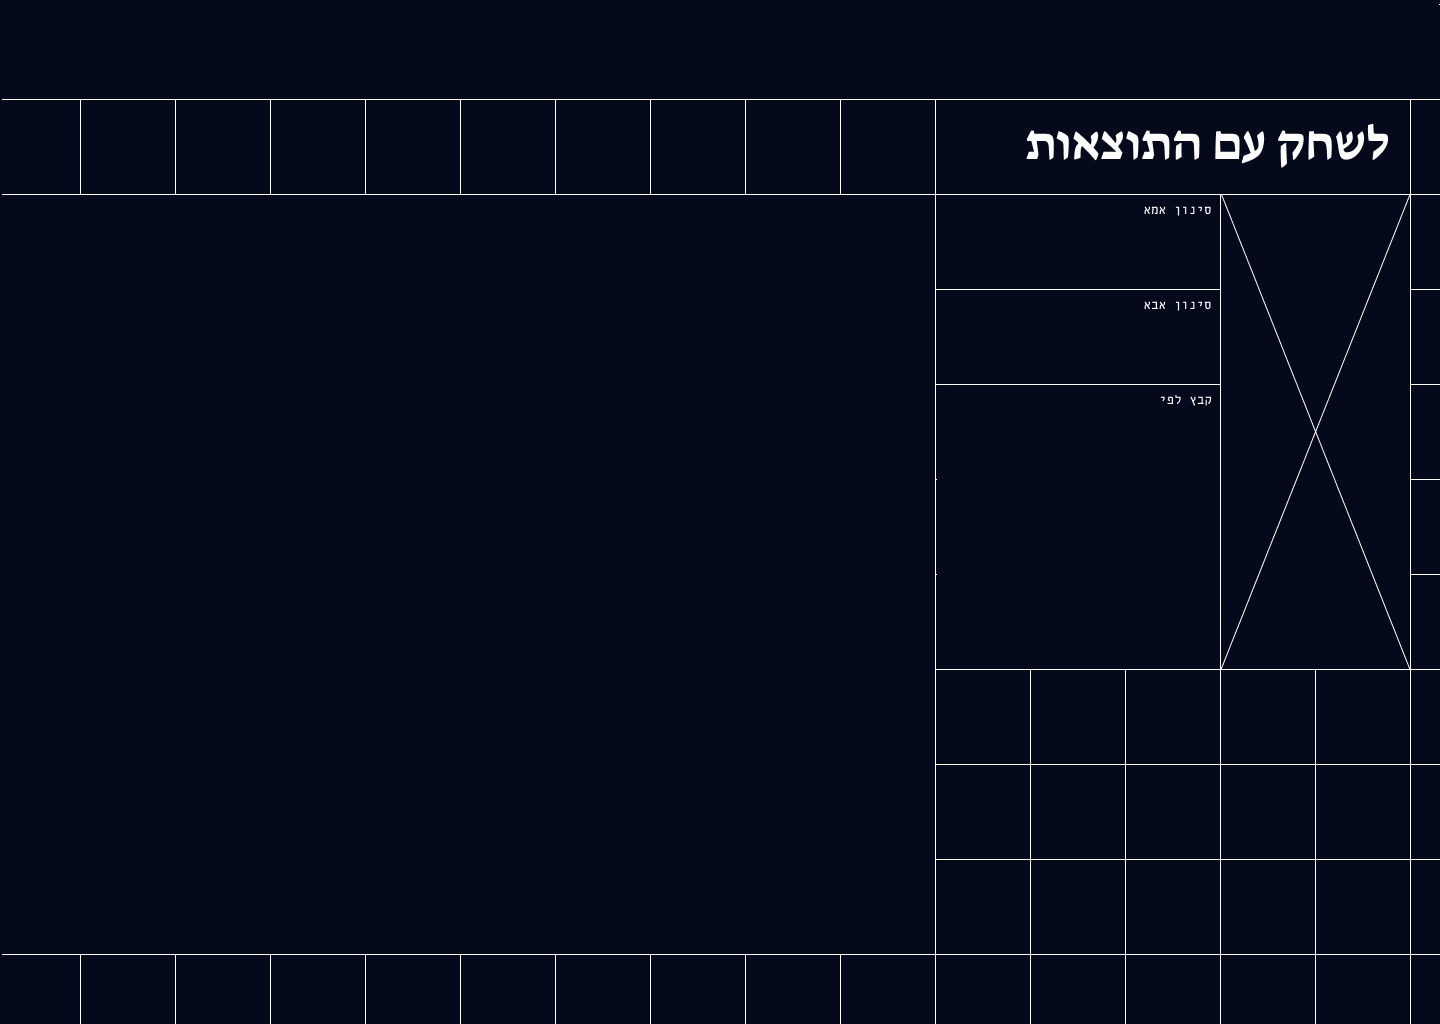
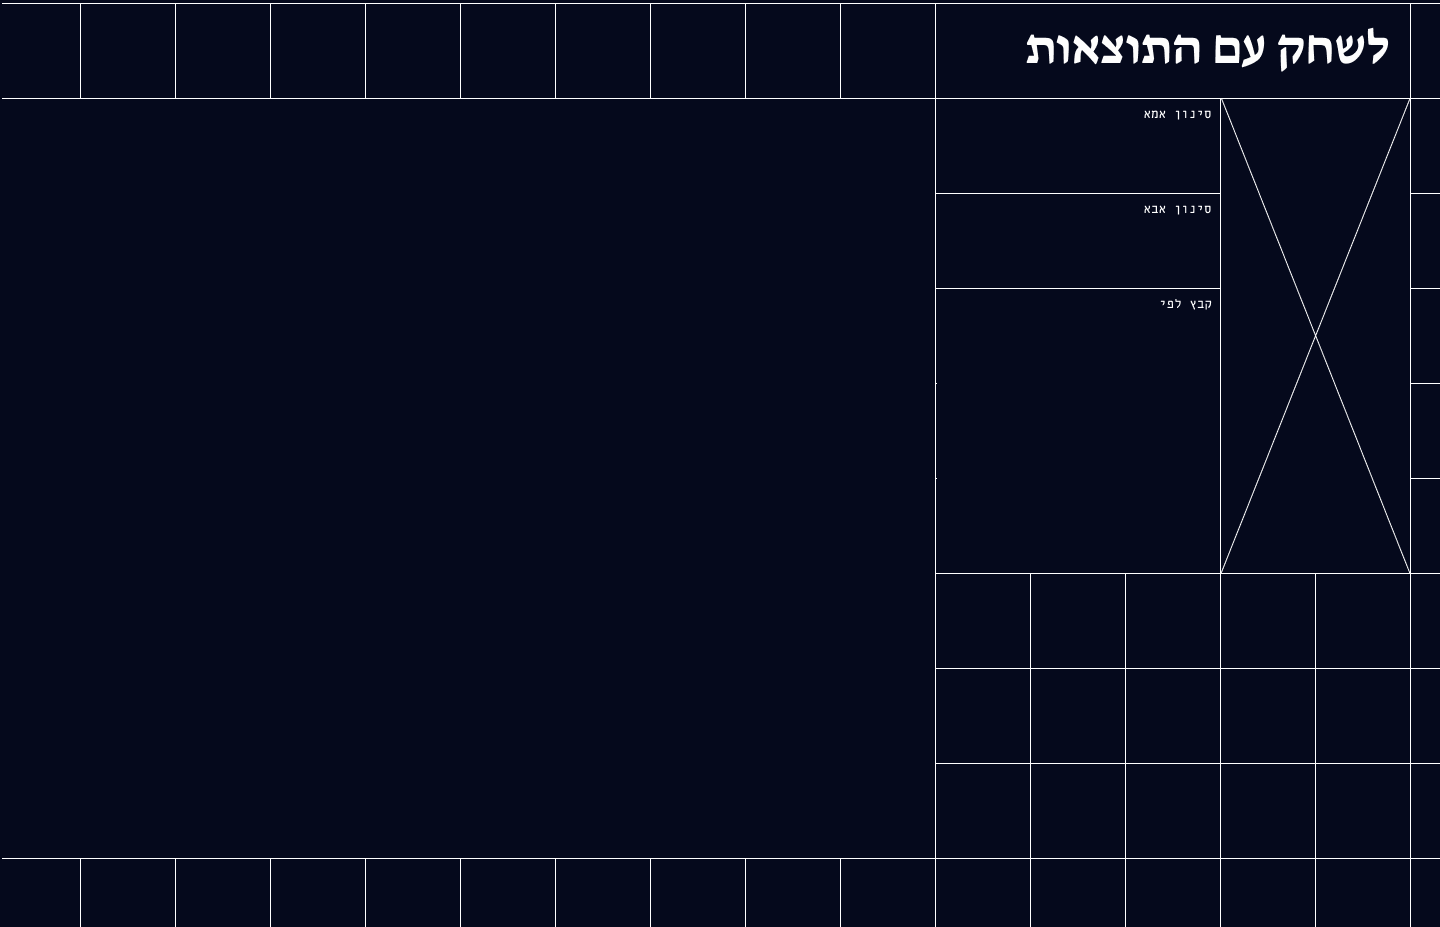
background size

diff --git a/src/App.js b/src/App.js
@@ -14,8 +14,8 @@ function App() {
 
   return (
     <div className='App'>
-        <div className="background-image">
-          <Menu />
+      <Menu />
+      <div className="background-image">
           <div style={{ display: "flex", marginLeft: "30px" }}>
             <Dropdown parent={"Mom"} setSameVar={setSameMom} filter={filter} />
             <Dropdown parent={"Dad"} setSameVar={setSameDad} filter={filter} />
@@ -23,7 +23,7 @@ function App() {
             <p>{sameMom}</p>
           </div>
           <SketchGraph dad_score={sameDad} mom_score={sameMom} />
-        </div>
+      </div>
     </div>
   );
 }

diff --git a/src/App.css b/src/App.css
@@ -24,10 +24,12 @@
 }
 
 .background-image {
-  background-image: url('background.png');
-  background-size: cover;
+  background-image: url('background0.png');
+  background-size: auto;
   background-repeat: no-repeat;
+  background-position: right;
 }
+
 
 
 .Menu {
